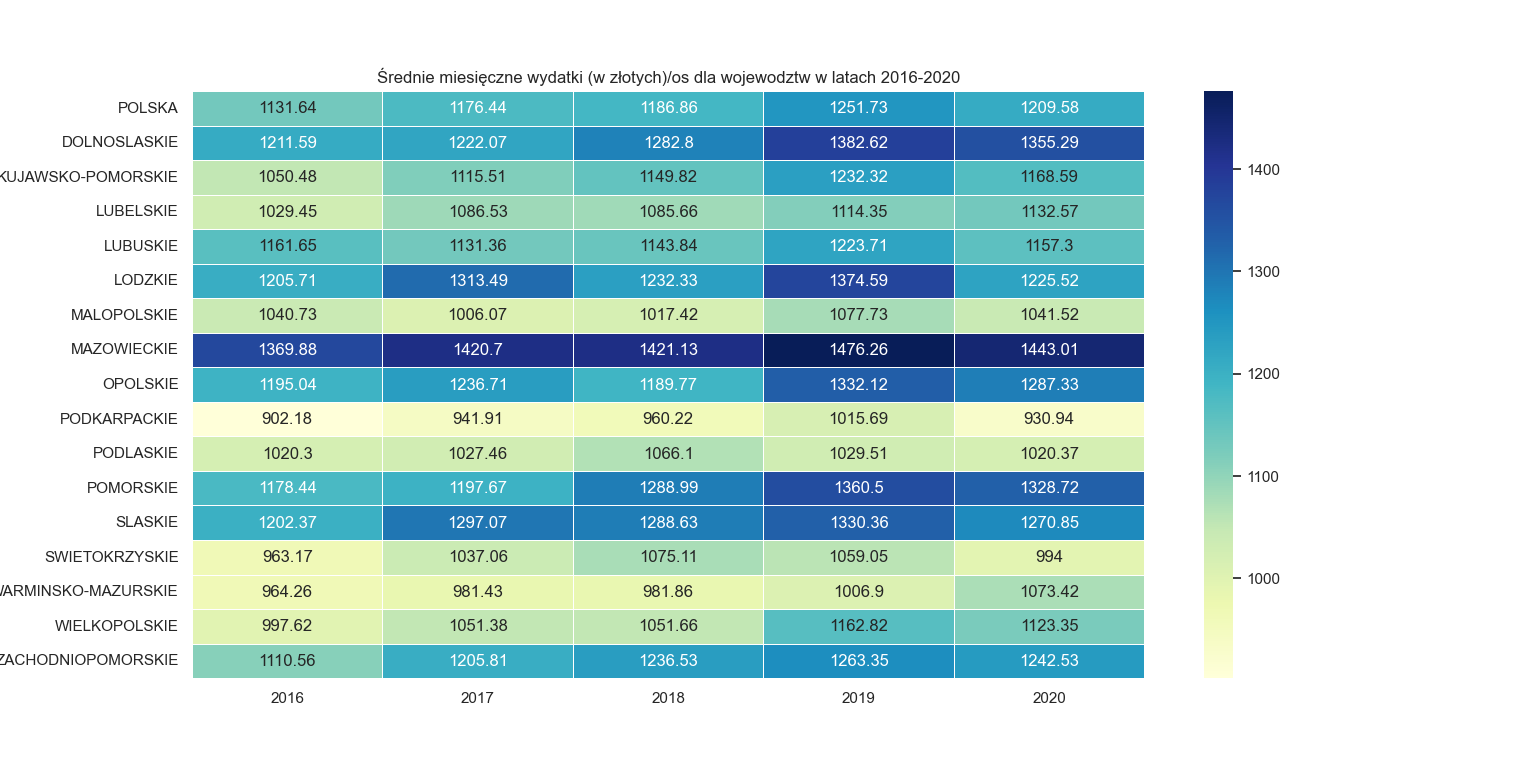
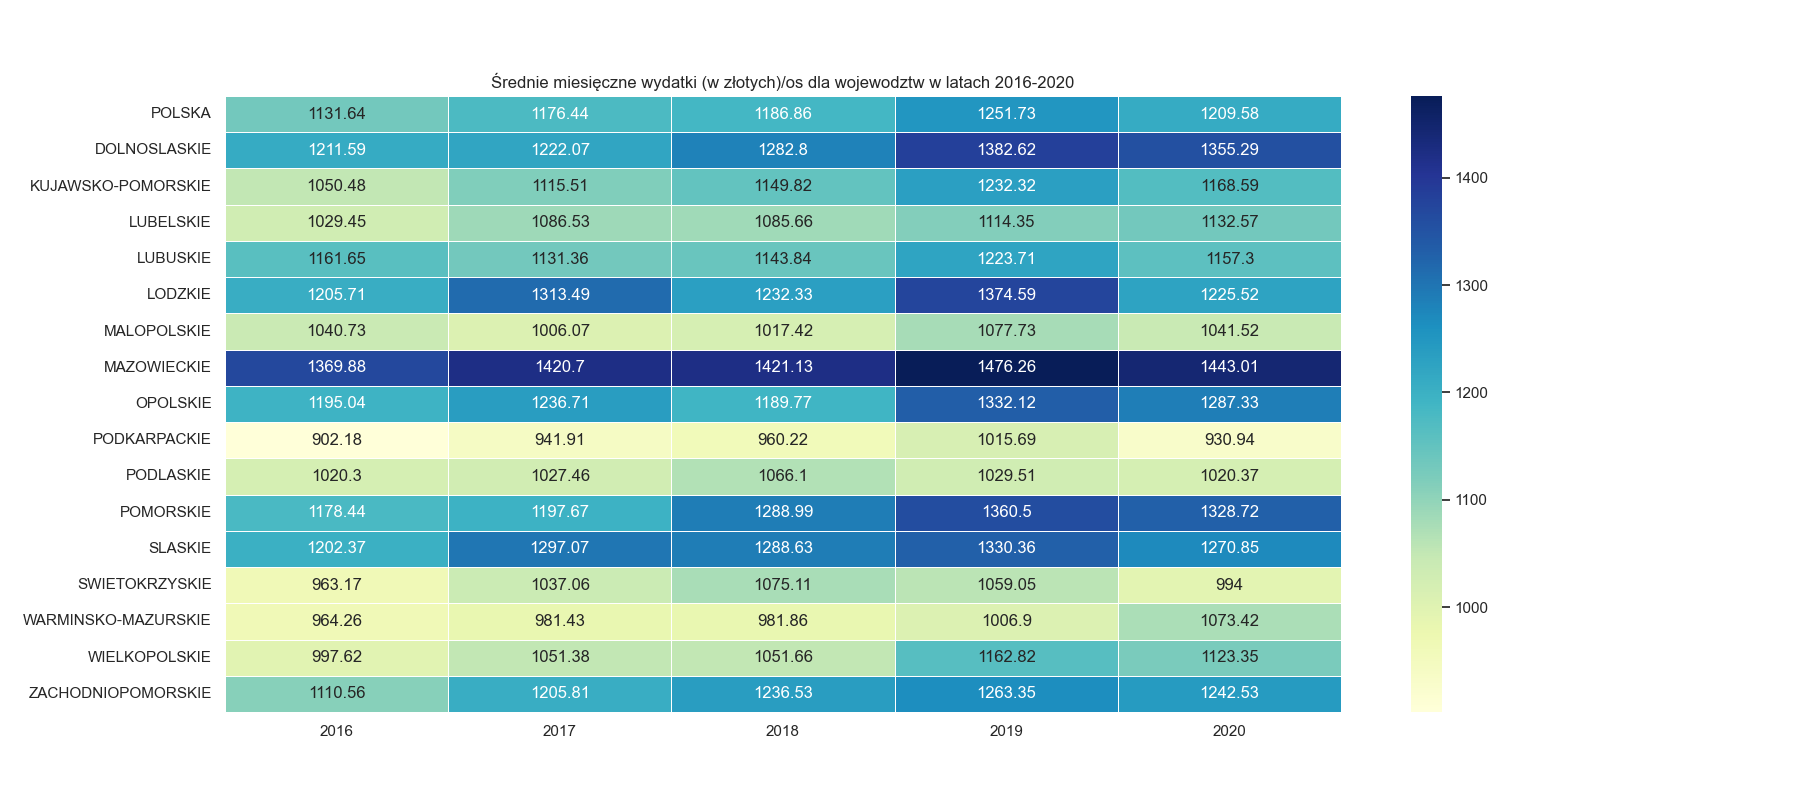
Refractored the code.

diff --git a/main.py b/main.py
@@ -8,6 +8,7 @@ import matplotlib.pyplot as plt
 PORT = 8087
 BUCKET = "BGD-project"
 DATA_PATH = r"data/all_data.json"
+OUTPUT_PATH = "output/"
 YEARS = ("2016", "2017", "2018", "2019", "2020")
 PROVINCES = {
     "POLSKA": "0",
@@ -29,7 +30,7 @@ PROVINCES = {
     "ZACHODNIOPOMORSKIE": "3200000"
 }
 KEYS_LIST = ("produkty_zbozowe", "mieso", "owoce", "warzywa", "cukier", "ryby_owoce_morza",
-            "mleko", "jogurty", "sery", "tluszcze", "jaja")
+             "mleko", "jogurty", "sery", "tluszcze", "jaja")
 
 # connection
 client = RiakClient(pb_port=PORT)
@@ -69,54 +70,43 @@ def food_sum(b, provinces, target):
                 all_years_food_type_amount[index] = float(item.replace(",", "."))
             zipped_lists = zip(all_years_food_type_amount, monthly_amount_of_food)
             monthly_amount_of_food = [round(x + y, 2) for (x, y) in zipped_lists]
-        dictionary[province] = dict(zip(YEARS,monthly_amount_of_food))
+        dictionary[province] = dict(zip(YEARS, monthly_amount_of_food))
     return dictionary
 
 
 def data_to_heatmap(b, provinces, name):
-    output={}
+    output = {}
     for province in provinces:
         all_data = get_all_years_data(b, provinces[province], name)
         for index, item in enumerate(all_data):
-            all_data[index] = round(float(item.replace(",", ".")),2)
+            all_data[index] = round(float(item.replace(",", ".")), 2)
         output[province] = dict(zip(YEARS, all_data))
-    print(output)
+    # print(output)
     return output
 
 
-def test():
-    # test 1
-    print("\nTest1: output should be 5,87")
-    print("Test1: result:", get_single_data(bucket, PROVINCES["ZACHODNIOPOMORSKIE"], "mieso", "2016"))
-
-    # test 2
-    print("\nTest2: output should be ['5,87', '5,83', '5,78', '5,57', '5,95']")
-    print("Test2: result:", get_all_years_data(bucket, PROVINCES["ZACHODNIOPOMORSKIE"], "mieso"))
+def generate_heatmaps(data, title, file):
+    plt.subplots(1, 1, figsize=(18, 8))
+    sns.heatmap(data, annot=True, linewidths=.5, cmap="YlGnBu", fmt='g')
+    plt.title(title)
+    plt.savefig(file + ".png")
 
 
 load_data(DATA_PATH, bucket)
 
-#Średnia miesięczna ilość spożywanego jedzenia dla województw w latach 2016-2020
+# Średnia miesięczna ilość spożywanego jedzenia dla województw w latach 2016-2020
 monthly_all_food_consumption_df = pd.DataFrame(food_sum(bucket, PROVINCES, KEYS_LIST)).T
 
-#Procent wydawanych pieniędzy na żywność w stosunku do dochodu dla wojewodztw w latach 2016-2020
+# Procent wydawanych pieniędzy na żywność w stosunku do dochodu dla wojewodztw w latach 2016-2020
 money_spend_for_food_df = pd.DataFrame(data_to_heatmap(bucket, PROVINCES, "wydatki_na_zywnosc")).T
 
-#Procent wydawanych pieniedzy na żywność w stosunku do wydatków dla województw w latach 2016-2020
-money_spend_in_general_df =pd.DataFrame(data_to_heatmap(bucket, PROVINCES, "wydatki_ogolem")).T
-
-#test()
+# Procent wydawanych pieniedzy na żywność w stosunku do wydatków dla województw w latach 2016-2020
+money_spend_in_general_df = pd.DataFrame(data_to_heatmap(bucket, PROVINCES, "wydatki_ogolem")).T
 
 sns.set()
 
-#ax = sns.heatmap(money_spend_in_general_df,annot=True,linewidths=.5,cmap="YlGnBu",fmt='g')
-#plt.title("Średnie miesięczne wydatki (w złotych)/os dla wojewodztw w latach 2016-2020")
-#plt.show()
+generate_heatmaps(money_spend_in_general_df, "Średnie miesięczne wydatki (w złotych)/os dla wojewodztw w latach 2016-2020", OUTPUT_PATH+"Figure_1")
+generate_heatmaps(money_spend_for_food_df, "Średnie miesięczne wydatki na żywność (w złotych)/os dla wojewodztw w latach 2016-2020", OUTPUT_PATH+"Figure_2")
+generate_heatmaps(monthly_all_food_consumption_df, "Średnia miesięczna ilość spożywanego jedzenia (w kilogramach) na osobę dla województw w latach 2016-2020", OUTPUT_PATH+"Figure_3")
 
-#ax = sns.heatmap(money_spend_for_food_df, annot=True, linewidths=.5, cmap="YlGnBu", fmt='g')
-#plt.title("Średnie miesięczne wydatki na żywność (w złotych)/os dla wojewodztw w latach 2016-2020")
-#plt.show()
-
-ax = sns.heatmap(monthly_all_food_consumption_df, annot=True, linewidths=.5, cmap="YlGnBu")
-plt.title("Średnia miesięczna ilość spożywanego jedzenia (w kilogramach) na osobę dla województw w latach 2016-2020")
 plt.show()
